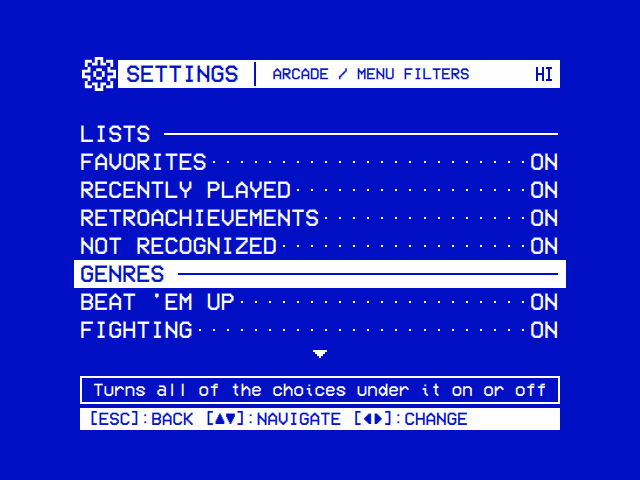
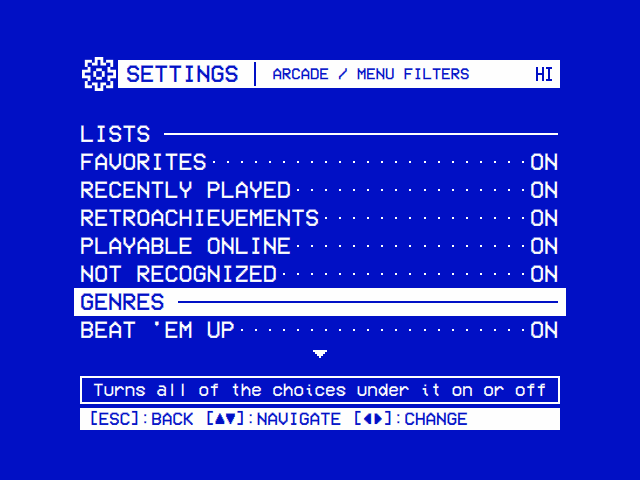
feat: Playable Online filter on the Arcade screen
The Arcade screen gains a Playable Online filter: the games in the
folder that can be played with others through RetroArch's netplay.

- With Online Play on, it lists every game FinalBurn Neo has, by name:
  the games Host Online Game can start from a game's options, and that
  can be joined when someone hosts them in RetroArch's lobby. A game
  set to MAME in its options is on it too, as a game played online
  always plays in FinalBurn Neo.
- Menu Filters lists it under Lists after RetroAchievements, and Start
  Filter offers it.
- Its games and RetroAchievements' are worked out by one helper and
  kept, per filter, until the folder, FinalBurn Neo's list, Online
  Play, Online High Scores, the Web API key or a game's engine changes.

The Settings help line for Online Play names the new filter.

Tests: the filter with Online Play off and on, a game FinalBurn Neo
hasn't left out and one set to MAME kept, hidden by Menu Filters, and
empty while FinalBurn Neo's core or its list is missing; Menu Filters
and Start Filter (arcade_test's onlinePlay, filters, menuFilters and
retroAchievementsFilter).

Changed region(s): [[0.0938, 0.4688, 0.9062, 0.7188]]

diff --git a/tests/arcade_test.cpp b/tests/arcade_test.cpp
@@ -2219,9 +2219,10 @@ private slots:
             arcade.menuFilterOptions();
             QTRY_COMPARE_WITH_TIMEOUT(options.size(), 1, 5000);
             QCOMPARE(options.last().at(0).toString(), QStringLiteral("menu_filters"));
-            QCOMPARE(labels(options.last().at(1)).mid(0, 5),
+            QCOMPARE(labels(options.last().at(1)).mid(0, 6),
                      QStringList({ QStringLiteral("Lists"), QStringLiteral("Favorites"), QStringLiteral("Recently Played"),
-                                   QStringLiteral("RetroAchievements"), QStringLiteral("Not Recognized") }));
+                                   QStringLiteral("RetroAchievements"), QStringLiteral("Playable Online"),
+                                   QStringLiteral("Not Recognized") }));
             arcade.startFilterOptions();
             QTRY_COMPARE_WITH_TIMEOUT(options.size(), 2, 5000);
             QCOMPARE(options.last().at(0).toString(), QStringLiteral("start_filter"));
@@ -2360,17 +2361,56 @@ private slots:
         ArcadeBackend arcade(data.path(), data.path(), nullptr, nullptr);
         arcade.setLobbyUrl(QUrl(QStringLiteral("http://127.0.0.1:%1/list").arg(server.serverPort())));
         refreshed(arcade);
-        // Off: no lobby, no folder, nothing to host.
+        QTRY_VERIFY_WITH_TIMEOUT(!arcade.filters().isEmpty(), 10000);
+        // The Arcade screen's Playable Online: its games, and the count
+        // filters() gives it (0 while it isn't among them).
+        const auto playable = [&arcade] {
+            QStringList sets;
+            const QVariantList games = arcade.filterGames(QStringLiteral("netplay"), 0, 10);
+            for (const QVariant &v : games)
+                sets << v.toMap().value(QStringLiteral("set")).toString();
+            return sets;
+        };
+        const auto listed = [&arcade] {
+            const QVariantList filters = arcade.filters();
+            for (const QVariant &v : filters) {
+                const QVariantMap filter = v.toMap();
+                if (filter.value(QStringLiteral("id")).toString() == QLatin1String("netplay")
+                    && filter.value(QStringLiteral("name")).toString() == QLatin1String("Playable Online"))
+                    return filter.value(QStringLiteral("count")).toInt();
+            }
+            return 0;
+        };
+        // Off: no lobby, no folder, nothing to host, no Playable Online.
         QCOMPARE(asked, 0);
         QVERIFY(arcade.rooms().isEmpty());
         QVERIFY(!names(arcade.requestEntries(QStringLiteral("top"))).contains(QStringLiteral("Online Games")));
         QVERIFY(!arcade.canHost(QStringLiteral("sf2")));
+        QVERIFY(playable().isEmpty());
+        QCOMPARE(listed(), 0);
 
         const QString module = QStringLiteral("com.osdos.arcade");
         arcade.onSettingChanged(module, QStringLiteral("online_play"), QStringLiteral("On"));
         QCOMPARE(arcade.engineOf(QStringLiteral("sf2")), QStringLiteral("fbneo"));
         QVERIFY(arcade.canHost(QStringLiteral("sf2")));
         QVERIFY(!arcade.canHost(QStringLiteral("pacman")));
+        // Playable Online: the games that can be hosted, by name, not one
+        // FinalBurn Neo hasn't; one set to MAME too, as online it plays in
+        // FinalBurn Neo. Menu Filters can hide it.
+        QCOMPARE(listed(), 3);
+        QCOMPARE(playable(), QStringList({ QStringLiteral("galaga"), QStringLiteral("mslug"), QStringLiteral("sf2") }));
+        arcade.onSettingChanged(module, QStringLiteral("menu_filters"),
+                                QVariantMap{ { QStringLiteral("netplay"), false } });
+        QCOMPARE(listed(), 0);
+        arcade.onSettingChanged(module, QStringLiteral("menu_filters"), QVariantMap());
+        QCOMPARE(listed(), 3);
+        QCOMPARE(arcade.filterIndex(QStringLiteral("netplay"), QStringLiteral("pacman")), -1);
+        arcade.onSettingChanged(module, QStringLiteral("engines"),
+                                QVariantMap{ { QStringLiteral("sf2"), QStringLiteral("mame") } });
+        QCOMPARE(arcade.engineOf(QStringLiteral("sf2")), QStringLiteral("mame"));
+        QVERIFY(arcade.canHost(QStringLiteral("sf2")));
+        QCOMPARE(playable().size(), 3);
+        arcade.onSettingChanged(module, QStringLiteral("engines"), QVariantMap());
         QCOMPARE(names(arcade.requestEntries(QStringLiteral("top"))).value(0), QStringLiteral("Online Games"));
         // Asked for before the lobby is read: read then, listed once it is.
         QSignalSpy roomsRead(&arcade, &ArcadeBackend::roomsChanged);
@@ -2485,6 +2525,29 @@ private slots:
         QCOMPARE(gone.value(QStringLiteral("name")).toString(), QStringLiteral("Lobby Not Reachable"));
         QVERIFY(gone.value(QStringLiteral("detail")).toString().startsWith(QStringLiteral("RetroArch's lobby can't be reached")));
         QCOMPARE(arcade.filters().value(1).toMap().value(QStringLiteral("id")).toString() == QLatin1String("online"), false);
+
+        // FinalBurn Neo's core gone, and back: none can be played online
+        // meanwhile. Its list gone: none either, as the folder is read again.
+        const QString core = libretro::downloadedCore(data.path());
+        QVERIFY(QFile::rename(core, core + QStringLiteral(".away")));
+        refreshed(arcade);
+        QVERIFY(playable().isEmpty());
+        QCOMPARE(listed(), 0);
+        QVERIFY(QFile::rename(core + QStringLiteral(".away"), core));
+        refreshed(arcade);
+        QCOMPARE(listed(), 3);
+        QVERIFY(QFile::remove(libretro::downloadedDat(data.path())));
+        refreshed(arcade);
+        QVERIFY(playable().isEmpty());
+        QCOMPARE(listed(), 0);
+        writeFile(libretro::downloadedDat(data.path()), fixture("fbneo-arcade.dat"));
+        refreshed(arcade);
+        QCOMPARE(listed(), 3);
+
+        // Off again: no Playable Online.
+        arcade.onSettingChanged(module, QStringLiteral("online_play"), QStringLiteral("Off"));
+        QVERIFY(playable().isEmpty());
+        QCOMPARE(listed(), 0);
     }
 
     // A game started while MAME is asked about the sets stops that MAME and
@@ -2794,7 +2857,7 @@ private slots:
             ids << v.toMap().value(QStringLiteral("id")).toString();
         QCOMPARE(options.at(0).at(0).toString(), QStringLiteral("start_filter"));
         QCOMPARE(ids, QStringList({ QStringLiteral("all"), QStringLiteral("favorites"), QStringLiteral("recent"),
-                                    QStringLiteral("achievements"),
+                                    QStringLiteral("achievements"), QStringLiteral("netplay"),
                                     QStringLiteral("genres/Beat 'em Up"), QStringLiteral("genres/Fighting"),
                                     QStringLiteral("genres/Maze"), QStringLiteral("genres/Shmup"),
                                     QStringLiteral("players/1"),
@@ -2925,7 +2988,8 @@ private slots:
         }
         QCOMPARE(page, QStringList({
             QStringLiteral("LISTS"), QStringLiteral("favorites=Favorites"), QStringLiteral("recent=Recently Played"),
-            QStringLiteral("achievements=RetroAchievements"), QStringLiteral("unknown=Not Recognized"),
+            QStringLiteral("achievements=RetroAchievements"), QStringLiteral("netplay=Playable Online"),
+            QStringLiteral("unknown=Not Recognized"),
             QStringLiteral("GENRES"), QStringLiteral("genres/Beat 'em Up=Beat 'em Up"),
             QStringLiteral("genres/Fighting=Fighting"), QStringLiteral("genres/Shmup=Shmup"),
             QStringLiteral("PLAYERS"), QStringLiteral("players/1=1 Player"), QStringLiteral("players/2=2 Players"),
@@ -2958,13 +3022,14 @@ private slots:
         arcade.startFilterOptions();
         QCOMPARE(ids(options.at(0).at(1).toList()), QStringList({
             QStringLiteral("all"), QStringLiteral("favorites"), QStringLiteral("recent"), QStringLiteral("achievements"),
+            QStringLiteral("netplay"),
             QStringLiteral("genres/Beat 'em Up"), QStringLiteral("genres/Shmup"), QStringLiteral("players/1"),
             QStringLiteral("players/2"), QStringLiteral("players/6"), QStringLiteral("years/1980s"),
             QStringLiteral("years/1990s"), QStringLiteral("makers/Namco") }));
 
         // A heading's all at once: the players off, Favorites, Recently
-        // Played and RetroAchievements too.
-        for (const char *id : { "players/1", "players/2", "players/6", "favorites", "recent", "achievements" })
+        // Played, RetroAchievements and Playable Online too.
+        for (const char *id : { "players/1", "players/2", "players/6", "favorites", "recent", "achievements", "netplay" })
             shown.insert(QLatin1String(id), false);
         core.save_setting(module, QStringLiteral("menu_filters"), shown);
         QCOMPARE(ids(arcade.filters()), QStringList({

diff --git a/src/modules/arcade/ArcadeBackend.cpp b/src/modules/arcade/ArcadeBackend.cpp
@@ -109,6 +109,7 @@ const char *const kFolderKinds[] = { "players", "years", "makers" };
 // two), and Not Recognized after, which the tree has too.
 constexpr std::pair<const char *, const char *> kLists[] = {
     { "favorites", "Favorites" }, { "recent", "Recently Played" }, { "achievements", "RetroAchievements" },
+    { "netplay", "Playable Online" },
 };
 constexpr std::pair<const char *, const char *> kUnknown = { "unknown", "Not Recognized" };
 
@@ -295,9 +296,9 @@ ArcadeBackend::ArcadeBackend(const QString &appRoot, const QString &dataRoot, Ap
     : QObject(parent), m_appRoot(appRoot), m_dataRoot(dataRoot),
       m_home(dataRoot + QStringLiteral("/arcade")), m_appCore(appCore)
 {
-    // The filters may hold other games: the RetroAchievements filter's made
-    // again when next asked for, before the screen asks.
-    connect(this, &ArcadeBackend::gamesChanged, this, [this] { m_achievementSetsKnown = false; });
+    // The filters may hold other games: RetroAchievements' and Playable
+    // Online's made again when next asked for, before the screen asks.
+    connect(this, &ArcadeBackend::gamesChanged, this, [this] { m_madeSets.clear(); });
     m_launcher = new ScriptLauncher(m_appRoot, m_dataRoot, handoff, this);
     m_launcher->setHandoffOwner(QStringLiteral("arcade"));
     connect(m_launcher, &ScriptLauncher::runningChanged, this, &ArcadeBackend::runningChanged);
@@ -801,6 +802,8 @@ void ArcadeBackend::onRead() {
         m_fbneoFrom = read.fbneoFrom;
         m_fbneoGames = std::move(read.fbneoGames);
         m_fbneoAspects = std::move(read.fbneoAspects);
+        // The filters made of the games it plays, made again.
+        m_madeSets.clear();
     }
     m_snaps = std::move(read.snaps);
     m_numbered = std::move(read.numbered);
@@ -1193,8 +1196,8 @@ QStringList ArcadeBackend::filterSets(const QString &filter) const {
     // The rest once MAME has said what the sets are.
     if (scanning())
         return QStringList();
-    if (filter == QLatin1String("achievements"))
-        return achievementSets();
+    if (filter == QLatin1String("achievements") || filter == QLatin1String("netplay"))
+        return madeSets(filter);
     const Index &games = index();
     if (filter == QLatin1String("all"))
         return games.games;
@@ -1929,27 +1932,35 @@ QString ArcadeBackend::engineFor(const QString &set, bool fbneoUsable, bool have
     return QStringLiteral("mame");
 }
 
-QStringList ArcadeBackend::achievementSets() const {
-    if (m_achievementSetsKnown)
-        return m_achievementSets;
-    m_achievementSets.clear();
-    // The games where achievements or a leaderboard's scores can be had:
-    // with Online High Scores on RetroAchievements, those that play in
-    // FinalBurn Neo and that RetroAchievements has a set of, by the hash of
-    // their own file (a clone's own, not its parent's), as its list of games
-    // says. The list needs the key.
-    if (m_achievements && !m_raKey.isEmpty()) {
+QStringList ArcadeBackend::madeSets(const QString &filter) const {
+    if (const auto made = m_madeSets.constFind(filter); made != m_madeSets.constEnd())
+        return *made;
+    QStringList sets;
+    if (filter == QLatin1String("achievements") && m_achievements && !m_raKey.isEmpty()) {
+        // The games where achievements or a leaderboard's scores can be had:
+        // with Online High Scores on RetroAchievements, those that play in
+        // FinalBurn Neo and that RetroAchievements has a set of, by the hash
+        // of their own file (a clone's own, not its parent's), as its list of
+        // games says. The list needs the key.
         m_retroAchievements->wantList();
         const bool ready = fbneoReady();
         const bool haveMame = !mamePath().isEmpty();
         for (const QString &set : index().games) {
             if (engineFor(set, ready, haveMame) == QLatin1String("fbneo")
                 && m_retroAchievements->hasGame(QFileInfo(m_sets.value(set)).fileName()))
-                m_achievementSets << set;
+                sets << set;
+        }
+    } else if (filter == QLatin1String("netplay") && m_onlinePlay && fbneoReady()) {
+        // The games that can be hosted, and joined in the lobby, with Online
+        // Play on: FinalBurn Neo's, whichever engine plays them off line, as
+        // a game online plays in it (canHost()).
+        for (const QString &set : index().games) {
+            if (fbneoHas(set))
+                sets << set;
         }
     }
-    m_achievementSetsKnown = true;
-    return m_achievementSets;
+    m_madeSets.insert(filter, sets);
+    return sets;
 }
 
 bool ArcadeBackend::filterPending(const QString &filter) const {

diff --git a/src/modules/arcade/ArcadeBackend.h b/src/modules/arcade/ArcadeBackend.h
@@ -45,7 +45,8 @@ class QTimer;
 //   no game of, or can't open by their names, under Not Recognized. The
 //   Arcade screen lists them a filter at a time (filters(), filterGames()):
 //   All Games, Favorites, Recently Played, RetroAchievements (the games it
-//   has achievements or leaderboards of, achievementSets()), each genre
+//   has achievements or leaderboards of), Playable Online (those that can be
+//   played online, madeSets()), each genre
 //   (made from catver.ini's categories, in the games folder or in
 //   <data>/arcade), each number of players, each decade and each publisher,
 //   and Not Recognized, as
@@ -144,7 +145,7 @@ public:
 
     // The filters with games in them, in the order ◄ ► goes round them:
     // [{ id, name, count }]. id: "all", "online" (Online Games, while
-    // someone hosts one), "favorites", "recent", "achievements",
+    // someone hosts one), "favorites", "recent", "achievements", "netplay",
     // "genres/<genre>", "players/<n>", "years/<decade>" ("years/unknown"),
     // "makers/<publisher>", "unknown" (Not Recognized); all but All Games and
     // Online Games only while Menu Filters shows them, but Not Recognized in
@@ -454,7 +455,7 @@ private:
         QStringList unknown;
     };
     const Index &index() const;
-    void invalidate() { m_indexed = false; m_achievementSetsKnown = false; }
+    void invalidate() { m_indexed = false; m_madeSets.clear(); }
     // A game's place among the genres, players, decades or makers; "" for
     // none.
     QString placeOf(const QString &kind, const QString &set, const mame::Machine *machine) const;
@@ -472,10 +473,11 @@ private:
     bool menuShows(const QString &filter) const;
     // A filter's sets, in the order it lists them.
     QStringList filterSets(const QString &filter) const;
-    // The RetroAchievements filter's: the games, by name, that achievements
-    // or a leaderboard's scores can be had in, kept until the filters may
-    // hold other games.
-    QStringList achievementSets() const;
+    // A filter's made from what each game is now: RetroAchievements', the
+    // games, by name, that achievements or a leaderboard's scores can be had
+    // in, and Playable Online's, those that can be played online; kept until
+    // the filters may hold other games.
+    QStringList madeSets(const QString &filter) const;
     // Why a set is under Not Recognized, and what to do.
     QString unknownDetail(const QString &set) const;
     // A set, and the parent of a clone.
@@ -620,10 +622,9 @@ private:
 
     FbneoInstaller *m_installer = nullptr;
     RetroAchievements *m_retroAchievements = nullptr;
-    // achievementSets(), made again once gamesChanged() or invalidate() says
-    // the filters may hold other games.
-    mutable QStringList m_achievementSets;
-    mutable bool m_achievementSetsKnown = false;
+    // madeSets(), by filter, made again once gamesChanged() or invalidate()
+    // says the filters may hold other games.
+    mutable QHash<QString, QStringList> m_madeSets;
 
     // The netplay lobby: its rooms as last read, why it couldn't be read
     // ("" when it was), whether it has been, and the read under way.

diff --git a/ARCHITECTURE.md b/ARCHITECTURE.md
@@ -482,7 +482,7 @@ The Arcade module (`modules/arcade`, `src/modules/arcade`) plays arcade games in
   - **The box under the picture** has its lines a `scorePitch` (29) apart, as many as its height holds (`infoLines`), in this order: the play time, against its foot; the high scores' heading with the first, `scoreFirst` under it; the next two (`scoreRows`); then the maker, year, players and system over the play time (`detailRows`, `detailList`, `?` for what MAME doesn't say), a value too long for its line scrolling through it (`alwaysScroll`). Ahead of the maker, while RetroAchievements has achievements of the game or is being asked, its achievements (`achievementCount(set)`, `{ state, earned, total, progress }`, `gameAchievements()` counted without its list going to QML): those earned of all (`7/100`), all alone with no account to say, `…` while they are read, read again on `gameAchievementsReady(set)`; a game RetroAchievements' list hasn't is `none` at once, with no line. The play time and players are worded by `Root.qml`'s `playTime()` and `players()`, as Game Details words them. The help line has what it has no line for. The play time always has its line: where the height wouldn't leave it one under a picture as wide as the column's share, the column narrows (`pictureRoom`). Border (`border`, `Root.qml`'s `border`) is the frame round the picture and the box (`frame`: a line, or none).
   - **Its area**: everything lies in a rectangle of the design's units (`areaLeft`, `areaTop`, `areaRight`, `areaBottom`), from the bar's top and the help line's left to the column's right and the hint bar's foot, 120, 90 to 840, 645 as the design has it, each side moved out (in, below 0) by Settings → Arcade → Screen Adjustment (`screen_adjustment`, `{ top, bottom, left, right }`, `Root.qml`'s `screenAdjustment`), as far as `adjustSide()` could have moved it whatever `config.json` says (`withinLimits()`: no side past the screen's edge, and a pair of sides that leaves less than the least room back where the design has them). The list's rows run from 57 under its top to the foot's room above its bottom, as many as fit; the column keeps its share of its width (345 of 720), narrower where the box under its picture would have no line, the picture 4:3 in it, and the list and the bar have the rest; the help line and the hint bar span it, their margins moved with its foot. The letters keep their size.
   - **Screen Adjustment** is a `module_view` row (`{ "adjustScreen": true }`): `Root.qml` opens the Arcade screen with `adjust`, whichever Screen is chosen, and back from it leaves the module for the row. A frame lies 8 units round the area, inside the screen, with an arrow beyond each side that has room (`adjustFrame`). ▲ ▼ ◄ ► move that side 6 units out, or in once select has switched (`shrinking`), as far as the screen's edge and no smaller than 600 × 420 (`adjustSide()`); select held 800 ms puts every side back (`resetAdjustment()`); COIN, START and the filters do nothing meanwhile. It is saved half a second after the last move, not at every step of a held key, and as back leaves (`keepAdjustment()`).
-  - **Filters**: `filters()` lists those with games that Menu Filters shows, in the order ◄ ► goes round them, as `[{ id, name, count }]`: All Games (`all`, always while MAME knows a set: when it knows none, Not Recognized is there in its place whatever Menu Filters says), Favorites (`favorites`, by name), Recently Played (`recent`, latest first), RetroAchievements (`achievements`, by name: with Online High Scores on RetroAchievements and a Web API key, the games that play in FinalBurn Neo, `engineFor()`, whose own file's hash is in RetroAchievements' list of games as one with achievements or leaderboards, `RetroAchievements::hasGame()`; `achievementSets()`, kept until `gamesChanged()` or `invalidate()`, which a new list (`listRead()`), the key, Online High Scores and an engine chosen send; asked for, the list kept is read in at once and one a week old read again, `wantList()`), each genre (`genres/<genre>`), each number of players (`players/<n>`), each decade (`years/<decade>`, `years/unknown` last), each publisher (`makers/<maker>`, the tree's makers), Not Recognized (`unknown`). `filterGames(filter, first, count)` is a page of one: `{ set, name, favorite }`, the name its title (`mame::titleOf`: the description up to ` (` and ` / `, `Galaga` for `Galaga (Namco rev. B)`), and Not Recognized's `{ set, name (its file's), unknown: true }`. `filterIndex(filter, set)` is where a game is in one: ◄ ► keep the game where the next filter has it, and back from a game lands on it in its filter again (`listState { filter, set }`). Start Filter (`start_filter`, its choices from `startFilterOptions()`, those Menu Filters shows) is the filter the screen opens on; while it has no games the screen shows the first that has, switching to it once it has while the folder is read, MAME is being asked or, RetroAchievements, its list of games is still to be read (`filterPending()`, `RetroAchievements::listPending()`), and staying where it is after that. Switched to, it opens as the screen would have, on the game it was left on or its first, unless ▲ ▼ have moved meanwhile (`browsed`): then the game moved to is kept. `rescan()` (Read the Games Again) asked while the folder is read waits for the read (`m_rescanAfterRead`, taken in `onRead()`); asked while MAME is being asked, it does nothing. One saved under a genre of 0.0.9's (catver.ini's own `Fighter`, `Driving`) is saved again as the genre it became as the backend starts, and one saved under a company's other name (`makers/Nintendo of America`) as the company (`makerFilter()`); Menu Filters' publishers likewise, the company on where any of its names was.
+  - **Filters**: `filters()` lists those with games that Menu Filters shows, in the order ◄ ► goes round them, as `[{ id, name, count }]`: All Games (`all`, always while MAME knows a set: when it knows none, Not Recognized is there in its place whatever Menu Filters says), Favorites (`favorites`, by name), Recently Played (`recent`, latest first), RetroAchievements (`achievements`, by name: with Online High Scores on RetroAchievements and a Web API key, the games that play in FinalBurn Neo, `engineFor()`, whose own file's hash is in RetroAchievements' list of games as one with achievements or leaderboards, `RetroAchievements::hasGame()`; asked for, the list kept is read in at once and one a week old read again, `wantList()`), Playable Online (`netplay`, by name: with Online Play on and FinalBurn Neo there, `fbneoReady()` (RetroArch, the core and its list), the games it has, `fbneoHas()`, whichever engine plays them off line, as a game hosted or joined plays in it, `canHost()`), each genre (`genres/<genre>`), each number of players (`players/<n>`), each decade (`years/<decade>`, `years/unknown` last), each publisher (`makers/<maker>`, the tree's makers), Not Recognized (`unknown`). RetroAchievements' and Playable Online's games are made from every game's by `madeSets()` and kept until `gamesChanged()` or `invalidate()`, which a read of the folder, FinalBurn Neo's list read again (at once, before the read's `gamesChanged()`), a new list of RetroAchievements' (`listRead()`), the key, Online High Scores, Online Play and an engine chosen send. `filterGames(filter, first, count)` is a page of one: `{ set, name, favorite }`, the name its title (`mame::titleOf`: the description up to ` (` and ` / `, `Galaga` for `Galaga (Namco rev. B)`), and Not Recognized's `{ set, name (its file's), unknown: true }`. `filterIndex(filter, set)` is where a game is in one: ◄ ► keep the game where the next filter has it, and back from a game lands on it in its filter again (`listState { filter, set }`). Start Filter (`start_filter`, its choices from `startFilterOptions()`, those Menu Filters shows) is the filter the screen opens on; while it has no games the screen shows the first that has, switching to it once it has while the folder is read, MAME is being asked or, RetroAchievements, its list of games is still to be read (`filterPending()`, `RetroAchievements::listPending()`), and staying where it is after that. Switched to, it opens as the screen would have, on the game it was left on or its first, unless ▲ ▼ have moved meanwhile (`browsed`): then the game moved to is kept. `rescan()` (Read the Games Again) asked while the folder is read waits for the read (`m_rescanAfterRead`, taken in `onRead()`); asked while MAME is being asked, it does nothing. One saved under a genre of 0.0.9's (catver.ini's own `Fighter`, `Driving`) is saved again as the genre it became as the backend starts, and one saved under a company's other name (`makers/Nintendo of America`) as the company (`makerFilter()`); Menu Filters' publishers likewise, the company on where any of its names was.
   - **Menu Filters** (`menu_filters`, a `multiselect_submenu`): `menuFilterOptions()` sends its page's choices, the lists, then the genres, players, decades and publishers there are, each kind under a heading (`kFilterKinds`), every filter id with its `default`: on (`shownByDefault()`), but a publisher's, as a full set has hundreds. `applySetting()` reads the whole of `menu_filters` again at any change to it, one filter (`menu_filters.<id>`) or a heading's all at once, and sends `gamesChanged()`; `menuShows(id)` is what `filters()`, `placeFilters()` and `startFilterOptions()` go by. All Games isn't among them: the screen always has it.
   - **Genres** are made from catver.ini's categories, progettosnaps' list: `catver.ini` in the games folder, else in `<data>/arcade`, read again when its path, size or time changes (with the folder, at each `refresh()`). A set's genre (`mame::readGenres`, a clone's own or else its parent's) is the one arcade players know it by, from its `[Category]` without `* Mature *` and a TTL game's `TTL *` (`mame::genreOf`): `Fighter / Versus`, `Versus Co-op`, `3D` and the other fighters are Fighting; `Fighter / 2.5D`, `2D`, `Vertical`, `Field`, `Scrolling` and `Platform / Fighter` Beat 'em Up; `Shooter / Flying …`, `Gallery`, `Misc. Vertical` and `Misc. Horizontal` Shmup; `Platform / Shooter …` and `Shooter / Walking` Run and Gun; `Shooter / Gun` Light Gun; the other shooters Shooter, the other platform games Platform; `Driving / …` Racing; any other its main category (Maze, Puzzle, Sports, Climbing…). With no catver.ini in either folder, once a read of the folder has found games (`onRead()`), `downloadGenres()` downloads progettosnaps' from AntoPISA's MAME_SupportFiles repository on GitHub (`kGenresUrl`; `OSDOS_GENRES_URL`, "" for none, in tests) into `<data>/arcade`, on the user's machine (it comes with no licence, so it is never part of the repository or the image), then reads the folder again. It is taken only with its `[Category]` section, up to 16 MB (a download given up on as its header or its progress says it is bigger) and within 60 s; a download that fails says why in the log and is tried again at a read an hour later at the soonest. Until then, there are no genre filters.
   - **What a game is** (`gameDetails(set)`): `{ set, name (MAME's description), system, maker, year, players, playTime, pictures, picture, vertical }`; for a set under Not Recognized `{ set, name, unknown: true, detail }`; `{}` for one not in the folder. The system is the board its driver is for, by the driver's source file (`mame::systemOf`: `capcom/cps1.cpp` is CPS-1, `neogeo/neogeo.cpp` Neo-Geo, `sega/naomi.cpp` NAOMI, about a hundred boards), any other the driver's name in capitals. The pictures (`picturesOf()`, `picture` the first) are the games folder's `snap/<set>.png` or `.jpg`, as the picture packs for MAME lay them out, and those numbered after the set there (`<set>_1.png`, `<set>_2.jpg`…, by their number, a `.png` before a `.jpg`: RetroAchievements', below, and the user's own, `.png` or `.jpg` in either case; but a set's own snap, `sf2_1.png` while there is a set `sf2_1`); then of a clone the parent's numbered pictures (RetroAchievements' pictures of a clone of its parent's game are saved under the parent's name), and the parent's snap only for a clone without one of its own; then the first snapshot MAME took of the game (F12) in `<data>/arcade/snap/<set>/`, as read with the folder (`m_snaps`, `m_numbered` and `m_shots`, each set's pictures found in one pass over the snap folders rather than a file looked for as each game is chosen: a folder of a full set's pictures on exFAT is slow to look through for one that isn't there) until the list opens again, a game's own snapshots read again as it ends, and those downloaded since added; a vertical game's (its screen turned 90 or 270) stands upright in the middle of the frame. The play time is how long the game has run, in `<data>/arcade/playtime.json` (seconds by set), added to as each game ends, but not for a run MAME refused (never started, or exit 2, 5 or 6 without a crash).

diff --git a/tests/README.md b/tests/README.md
@@ -146,12 +146,12 @@ ctest --test-dir build-tests --output-on-failure
   - A game started while MAME is asked about the sets stops that MAME and holds the asking until it has ended; the sets it hadn't answered for are asked about first, then the rest, none lost.
   - Recently Played and Favorites show the games still in the folder, by MAME's names; without MAME the sets are listed by their names, and the module says MAME is not installed.
   - What the Arcade screen makes of a game: its title from MAME's description, its system from its driver's source file (a board by its name, any other driver by its own, with or without a maker's folder), the genres arcade players know games by, from catver.ini's categories (Fighting, Beat 'em Up, Shmup, Run and Gun, Light Gun, Racing, the others' main category; the `[Category]` section alone, without `* Mature *`, a TTL game by its kind), and the credits' script (player 1's coin, as many times as bought, once whatever resets the game).
-  - The filters, in order: All Games, the lists, the genres (a clone's its parent's), players, decades and Not Recognized; while MAME is asked, only the lists. RetroAchievements, from a stand-in for its Web API: with Online High Scores on it and a key, waited for while the list is read, the list read once and the games with achievements or a leaderboard alone that FinalBurn Neo plays, not one with neither, one FinalBurn Neo hasn't or one moved to MAME; none with Online High Scores off (the games set to FinalBurn Neo) or without the key; under Lists in Menu Filters, after Recently Played, hidden there, and among Start Filter's choices; at the next start, from the list kept, nothing read. Menu Filters: its page's choices under their headings, a publisher's off; the filters and Start Filter's choices as filters are turned on or off, one or a heading's all at once, a publisher's among them; a publisher with dots in its name saved and read back as it is; a Start Filter saved under catver.ini's own genre read as the one it became; a company under its own name whichever of its arms, mergers and legal forms made a game, and a Start Filter and Menu Filters' publishers saved under its other names saved again under it; catver.ini downloaded when neither folder has one, and read with the folder (an answer that isn't one not kept, nor asked for again at once); Not Recognized in All Games' place for a folder of sets MAME knows none of, though Menu Filters hides it. A page of one, where a game is in it, a game's details (system, maker, year, players, play time, vertical), its picture from the games folder's `snap` (its own, then its parent's) or MAME's own snapshots, read with the folder till the list opens again, a `snap` folder that isn't a set, a set not in the folder, and Start Filter's and Play at Startup's choices.
+  - The filters, in order: All Games, the lists, the genres (a clone's its parent's), players, decades and Not Recognized; while MAME is asked, only the lists. RetroAchievements, from a stand-in for its Web API: with Online High Scores on it and a key, waited for while the list is read, the list read once and the games with achievements or a leaderboard alone that FinalBurn Neo plays, not one with neither, one FinalBurn Neo hasn't or one moved to MAME; none with Online High Scores off (the games set to FinalBurn Neo) or without the key; under Lists in Menu Filters, after Recently Played and before Playable Online, hidden there, and among Start Filter's choices; at the next start, from the list kept, nothing read. Menu Filters: its page's choices under their headings, a publisher's off; the filters and Start Filter's choices as filters are turned on or off, one or a heading's all at once, a publisher's among them; a publisher with dots in its name saved and read back as it is; a Start Filter saved under catver.ini's own genre read as the one it became; a company under its own name whichever of its arms, mergers and legal forms made a game, and a Start Filter and Menu Filters' publishers saved under its other names saved again under it; catver.ini downloaded when neither folder has one, and read with the folder (an answer that isn't one not kept, nor asked for again at once); Not Recognized in All Games' place for a folder of sets MAME knows none of, though Menu Filters hides it. A page of one, where a game is in it, a game's details (system, maker, year, players, play time, vertical), its picture from the games folder's `snap` (its own, then its parent's) or MAME's own snapshots, read with the folder till the list opens again, a `snap` folder that isn't a set, a set not in the folder, and Start Filter's and Play at Startup's choices.
   - Credits: MAME started with the script, nine credits at most, and none without credits.
   - Play time: a game's time added as it ends and kept for the next start; none for a game MAME refused.
   - Play at Startup follows the app's startup favourite whichever way it is set, None clears it only while it is the module's, and the choices are None and the favorites.
   - A `games.json` from before the system was kept is read as none, and every set asked about again.
-  - Online play from a stand-in for RetroArch's lobby: nothing read or offered with Online Play off; on, Online Games first in the tree, the lobby read once it is asked for, its rooms of the folder's games FinalBurn Neo plays (not one with a password, nor one of a game not there), in the tree with who hosts them and as the Arcade screen's filter after All Games; a room joined (`--connect`, the default name) and a game hosted (`--host`, announced through the relay chosen, under the online name), the JAMMA board's sticks on the Standard Gamepad in both and a remap file left from a game off line removed; a room gone and a game that can't be hosted refused; a lobby that can't be reached said so where the rooms were.
+  - Online play from a stand-in for RetroArch's lobby: nothing read or offered with Online Play off; on, Online Games first in the tree, the lobby read once it is asked for, its rooms of the folder's games FinalBurn Neo plays (not one with a password, nor one of a game not there), in the tree with who hosts them and as the Arcade screen's filter after All Games; Playable Online, the games FinalBurn Neo has, one set to MAME among them, and none with Online Play off; a room joined (`--connect`, the default name) and a game hosted (`--host`, announced through the relay chosen, under the online name), the JAMMA board's sticks on the Standard Gamepad in both and a remap file left from a game off line removed; a room gone and a game that can't be hosted refused; a lobby that can't be reached said so where the rooms were.
   - What is asked of RetroArch: the config for a console or a desktop, with sound or none, every player's buttons as the Standard Gamepad with autodetection off (a player on a JAMMA stick as an arcade panel: the cabinet's rows on Y X L and B A R, the stick on the D-pad, and FinalBurn Neo's 6-Button Panel in its remap file, loaded without a notice; online, hosting or joining, the Standard Gamepad and no remap file), each player's controller reserved by its vendor and product (the JAMMA sticks' too; a GUID without them by its name), the account signed in with its password (the config saved back once) or its token, a value's quotes and line breaks taken out; the arguments; FinalBurn Neo's list of games without its BIOS sets, from a `game` or a `machine` list; the run's log (started, the files missing, a refused sign-in, the last error); the token in a config RetroArch saved; the lobby's rooms, what their hosts wrote taken only as it can be used (a name without markup and no longer than 32 characters, a set's name, an address that is one); RetroAchievements' hash of a game.
   - FinalBurn Neo as an engine: a game plays in it once RetroArch, the core and its list are there and Online High Scores is on, or its options choose it, and in MAME otherwise, its options' choices naming what Auto picks; played, RetroArch is given the core, the config (the password, the player's pad, the folders) and the game, in its own owner-only folder, with the BIOS sets linked where FinalBurn Neo looks; the JAMMA board's sticks reserved by their vendor and product, on the arcade panel's buttons and FinalBurn Neo's 6-Button Panel through its remap file, removed again for a gamepad; the token RetroArch saves taken and the password gone with the config, a refused token or password said why, and a config left behind removed as the module starts; files missing, or a set it can't start, as a game that didn't play, with no play time.
   - A sign-in checked as it is made, against the stand-in for RetroArch started with the sign-in core: signed in, its token kept and its folder removed; refused, why; RetroAchievements not reached, the password kept for the next game; stopped by signing out; none checked without the core.

diff --git a/docs/wiki/Arcade.md b/docs/wiki/Arcade.md
@@ -166,6 +166,7 @@ On a CRT, move each side to where the tube's edge cuts the picture off (its over
 | **Favorites** | The games put on Favorites, by name |
 | **Recently Played** | The games played last, latest first (up to 30) |
 | **RetroAchievements** | With **Online High Scores** on RetroAchievements and a Web API key: the games you can earn achievements or a leaderboard's scores in, by name. A game is on it when RetroAchievements has achievements or a leaderboard for its set, as its site lists each set by its MD5 (of the file's name: a clone needs its own), and it plays in FinalBurn Neo, so a game set to MAME in its options leaves it ([FinalBurn Neo](#finalburn-neo)) |
+| **Playable Online** | With **Online Play** on and FinalBurn Neo installed: the games you can play with others through RetroArch, by name: those FinalBurn Neo has, which you can host from a game's options or join when someone hosts them. A game set to MAME in its options is on it too, as a game played online always plays in FinalBurn Neo ([Online play](#online-play)) |
 | A genre (**Beat 'em Up**, **Fighting**, **Shmup**, **Run and Gun**…) | The games of that genre, by catver.ini ([below](#genres)) |
 | **1 Player**, **2 Players**… | The games for that many players at once |
 | **1980s**, **1990s**… | The games of each decade, **Year Unknown** last |
@@ -176,9 +177,9 @@ On a CRT, move each side to where the tube's edge cuts the picture off (its over
 
 ### Menu Filters
 
-<img src="https://raw.githubusercontent.com/mehmetraif/OSD-OS/main/docs/screenshots/arcade-menu-filters.png" width="100%" alt="Settings / Arcade / Menu Filters: the LISTS heading over Favorites, Recently Played, RetroAchievements and Not Recognized, ON; the GENRES heading selected, over Beat 'em Up and Fighting, ON; the help line: Turns all of the choices under it on or off" />
+<img src="https://raw.githubusercontent.com/mehmetraif/OSD-OS/main/docs/screenshots/arcade-menu-filters.png" width="100%" alt="Settings / Arcade / Menu Filters: the LISTS heading over Favorites, Recently Played, RetroAchievements, Playable Online and Not Recognized, ON; the GENRES heading selected, over Beat 'em Up, ON; the help line: Turns all of the choices under it on or off" />
 
-**Settings → Arcade → Menu Filters** chooses the filters ◄ ► goes round. Its page lists them under five headings, each with the ones the games in the folder have: **Lists** (Favorites, Recently Played, RetroAchievements, Not Recognized), **Genres**, **Players**, **Years** and **Publishers**.
+**Settings → Arcade → Menu Filters** chooses the filters ◄ ► goes round. Its page lists them under five headings, each with the ones the games in the folder have: **Lists** (Favorites, Recently Played, RetroAchievements, Playable Online, Not Recognized), **Genres**, **Players**, **Years** and **Publishers**.
 
 - ◄, ► or select on a filter turns it **ON** or **OFF**.
 - On a heading, they turn every filter under it on at once, or off once they all are on.
@@ -326,7 +327,7 @@ The High Scores module shows MAME's tables only: a game played in FinalBurn Neo 
 
 ## Online play
 
-**Settings → Arcade → Online Play**, **On**, plays the games FinalBurn Neo has with others over the internet, through RetroArch's netplay and its lobby, the list of the games RetroArch players host everywhere (lobby.libretro.com).
+**Settings → Arcade → Online Play**, **On**, plays the games FinalBurn Neo has with others over the internet, through RetroArch's netplay and its lobby, the list of the games RetroArch players host everywhere (lobby.libretro.com). The Arcade screen's **Playable Online** filter lists those games of yours.
 
 - **Joining**: **Online Games** (the first folder of the tree, or a filter of the Arcade screen) lists the games hosted in the lobby that you have in your games folder, each with who hosts it and where; select joins one. The list is read as Arcade opens, and every 20 seconds while it is shown: a game stays in the lobby only while its host is there. A game with a password isn't listed.
 - **Hosting**: **Host Online Game**, in a game's options, starts the game for others to join: it shows in the lobby under your name, through the **Relay Server** chosen, so that no router of yours has to let anyone in.
@@ -372,7 +373,7 @@ Settings → Arcade, the second row of Settings' first screen. The page is share
 | Save High Scores | ON, OFF | ON | Keeps the games' high score tables with MAME's hiscore plugin ([above](#high-scores)) | `modules.com.osdos.arcade.high_scores` |
 | Online High Scores | Off, RetroAchievements | Off | RetroAchievements: a game FinalBurn Neo has plays in it, in hardcore mode, its scores going to RetroAchievements' leaderboards ([FinalBurn Neo](#finalburn-neo)) | `modules.com.osdos.arcade.online_high_scores` |
 | RetroAchievements Account | (opens the account's page) | | The account the scores go to with Online High Scores: sign in and out, and the Web API key the leaderboards, the games' pictures and their achievements are read with ([FinalBurn Neo](#finalburn-neo), [Pictures](#pictures-from-retroachievements), [Game Details](#game-details)) | |
-| Online Play | Off, On | Off | Playing the games FinalBurn Neo has with others over the internet: Online Games, and Host Online Game in a game's options ([Online play](#online-play)) | `modules.com.osdos.arcade.online_play` |
+| Online Play | Off, On | Off | Playing the games FinalBurn Neo has with others over the internet: Online Games, Playable Online, and Host Online Game in a game's options ([Online play](#online-play)) | `modules.com.osdos.arcade.online_play` |
 | Online Name | (opens the on-screen keyboard) | The RetroAchievements account's, else OSD-OS | The name the others see in online games ([Online play](#online-play)). Shown while Online Play is On | `modules.com.osdos.arcade.online_name` |
 | Relay Server | New York, Madrid, São Paulo, Singapore, Chuncheon | New York | Where a game you host is relayed from ([Online play](#online-play)). Shown while Online Play is On | `modules.com.osdos.arcade.relay_server` |
 | FinalBurn Neo | (opens FinalBurn Neo's page) | | What is installed of RetroArch and FinalBurn Neo, and the core's download ([FinalBurn Neo](#finalburn-neo)); its licence is in Settings → About | |
@@ -389,8 +390,8 @@ Settings → Arcade, the second row of Settings' first screen. The page is share
 | `enabled`, `border`, `hint_bar`, `help_line`, `start_info`, `high_scores` | `true` or `false` |
 | `games_directory` | `""` for the default, else the folder's full path |
 | `screen` | `"Original"` or `"Arcade"` |
-| `start_filter` | The filter's id: `"all"`, `"favorites"`, `"recent"`, `"achievements"` (RetroAchievements), `"genres/<genre>"` (`"genres/Fighting"`), `"players/<n>"` (`"players/2"`), `"years/<decade>"` (`"years/1980s"`, `"years/unknown"`) or `"makers/<publisher>"` (`"makers/Capcom"`) |
-| `menu_filters` | The filters turned on or off, by id: `{ "genres/Puzzle": false, "makers/Capcom": true }`, `"achievements"` for RetroAchievements and `"unknown"` for Not Recognized. One not in it is on, but a publisher's |
+| `start_filter` | The filter's id: `"all"`, `"favorites"`, `"recent"`, `"achievements"` (RetroAchievements), `"netplay"` (Playable Online), `"genres/<genre>"` (`"genres/Fighting"`), `"players/<n>"` (`"players/2"`), `"years/<decade>"` (`"years/1980s"`, `"years/unknown"`) or `"makers/<publisher>"` (`"makers/Capcom"`) |
+| `menu_filters` | The filters turned on or off, by id: `{ "genres/Puzzle": false, "makers/Capcom": true }`, `"achievements"` for RetroAchievements, `"netplay"` for Playable Online and `"unknown"` for Not Recognized. One not in it is on, but a publisher's |
 | `play_at_startup` | The game's set (`"galaga"`), `""` for None; the app's own `startup_favorite` holds the same game, and either changes the other |
 | `list_style` | `"Straight"`, `"Curved"` or `"3D Curved"` |
 | `info_background` | A number from 0 (transparent) to 100 (solid) |
